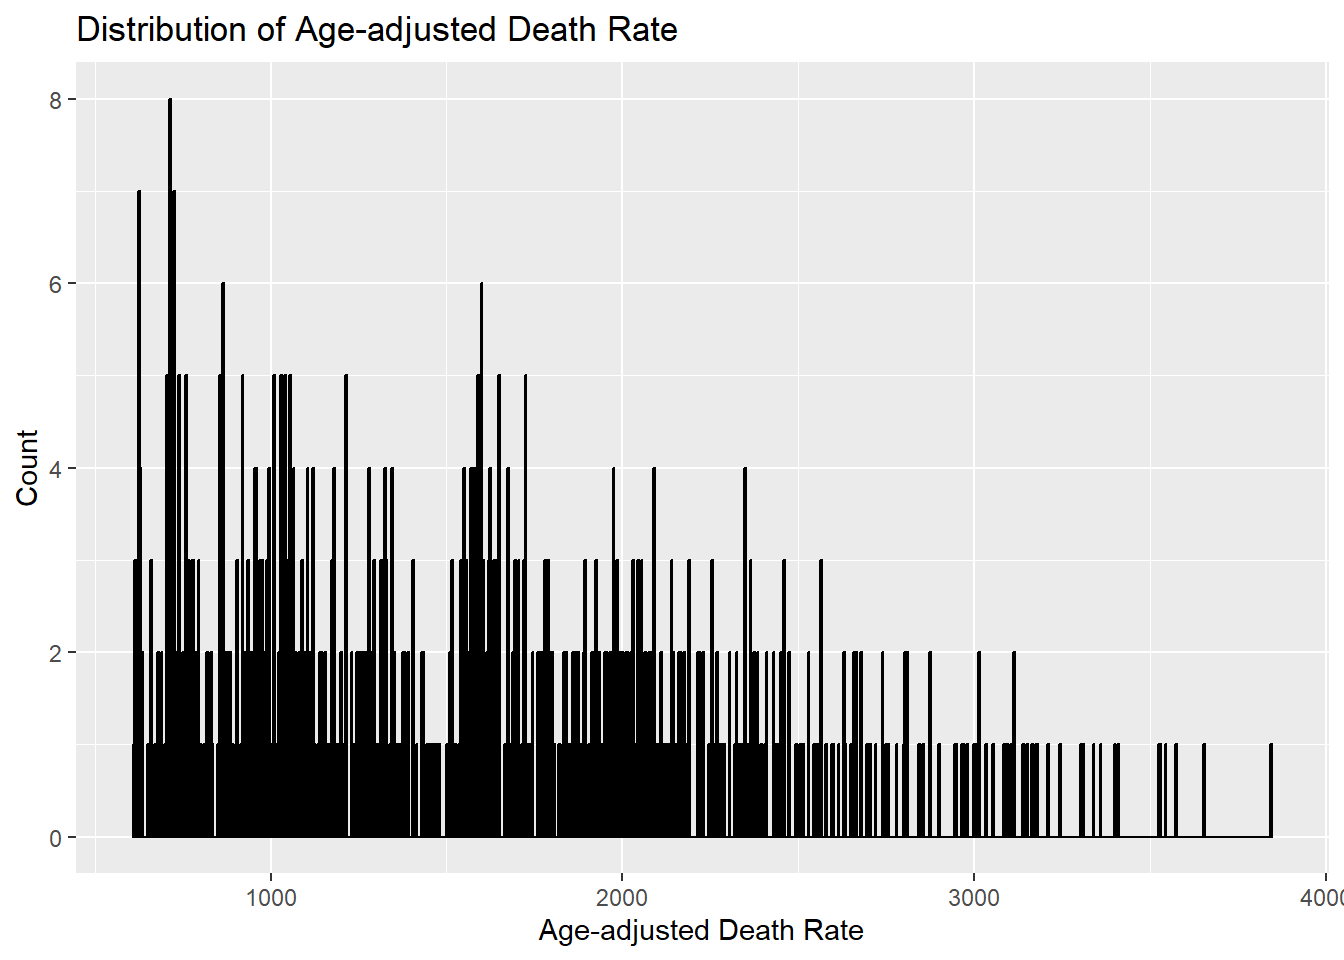
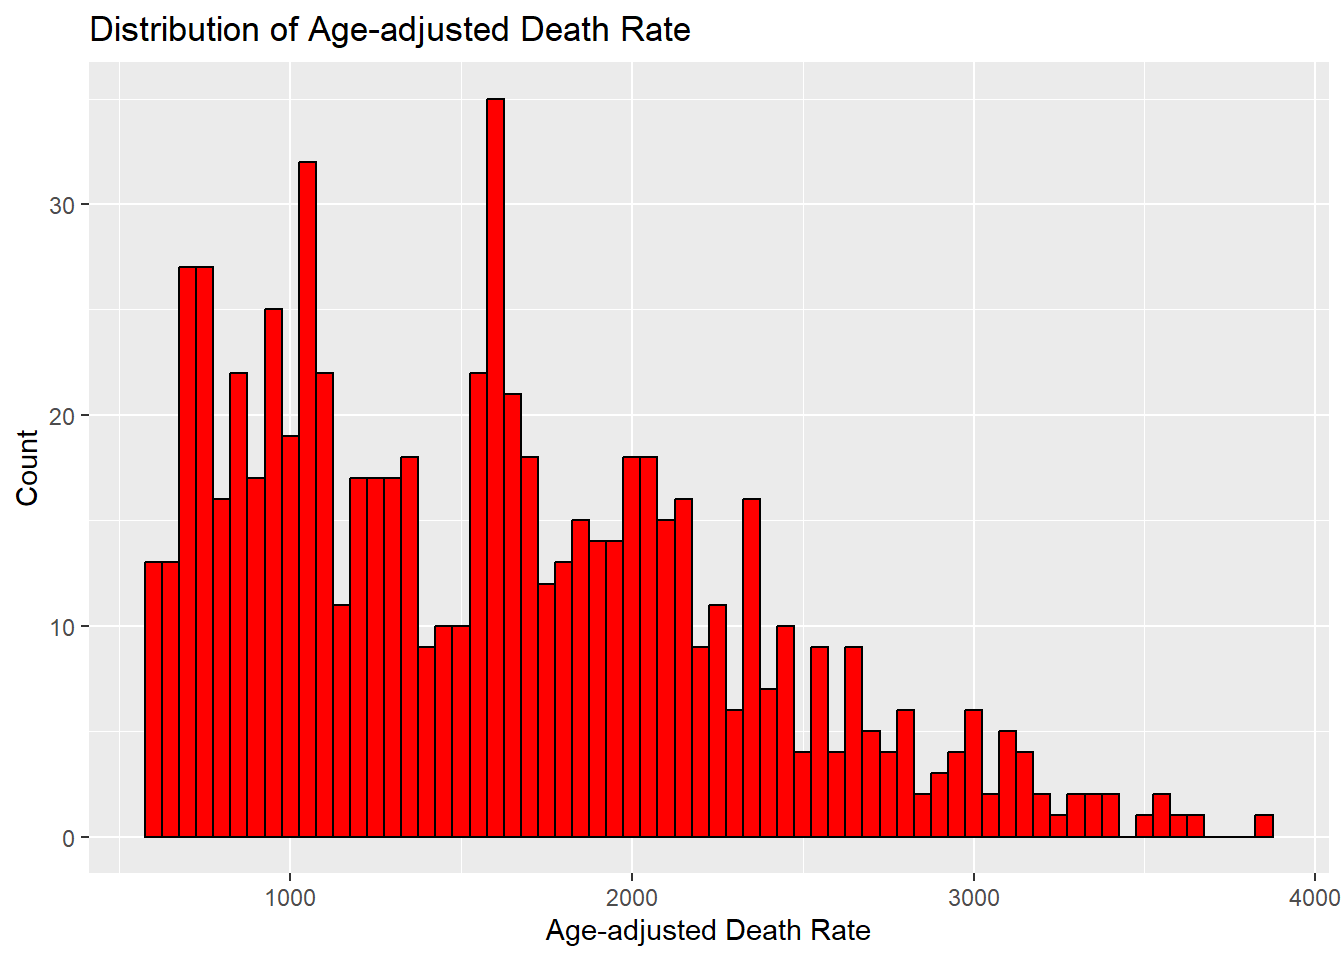
Updated website

diff --git a/docs/cdcdata-exercise/cdcdata-exercise.html b/docs/cdcdata-exercise/cdcdata-exercise.html
@@ -143,6 +143,10 @@ pre > code.sourceCode > span > a:first-child::before { text-decoration: underlin
     <a class="dropdown-item" href="../data-exercise/data-exercise.html" rel="" target="">
  <span class="dropdown-text">Data Exercise</span></a>
   </li>  
+        <li>
+    <a class="dropdown-item" href="../cdcdata-exercise/cdcdata-exercise.html" rel="" target="">
+ <span class="dropdown-text">Data Analysis Exercise</span></a>
+  </li>  
     </ul>
   </li>
 </ul>
@@ -222,7 +226,7 @@ dbl (3): Year, Average Life Expectancy (Years), Age-adjusted Death Rate
 </div>
 </div>
 <div class="cell">
-<div class="sourceCode cell-code" id="cb6"><pre class="sourceCode r code-with-copy"><code class="sourceCode r"><span id="cb6-1"><a href="#cb6-1" aria-hidden="true" tabindex="-1"></a><span class="co">#Remove "Both Sexes" from the "Sex" variable and only keep male and female</span></span>
+<div class="sourceCode cell-code" id="cb6"><pre class="sourceCode r code-with-copy"><code class="sourceCode r"><span id="cb6-1"><a href="#cb6-1" aria-hidden="true" tabindex="-1"></a><span class="co">#Remove "Both Sexes" from the "Sex" column and keep only male and female</span></span>
 <span id="cb6-2"><a href="#cb6-2" aria-hidden="true" tabindex="-1"></a>death2 <span class="ot">&lt;-</span> death_rate <span class="sc">%&gt;%</span></span>
 <span id="cb6-3"><a href="#cb6-3" aria-hidden="true" tabindex="-1"></a>  <span class="fu">filter</span>(Sex <span class="sc">!=</span> <span class="st">"Both Sexes"</span>)</span></code><button title="Copy to Clipboard" class="code-copy-button"><i class="bi"></i></button></pre></div>
 </div>
@@ -257,18 +261,21 @@ dbl (3): Year, Average Life Expectancy (Years), Age-adjusted Death Rate
 </div>
 <div class="sourceCode cell-code" id="cb13"><pre class="sourceCode r code-with-copy"><code class="sourceCode r"><span id="cb13-1"><a href="#cb13-1" aria-hidden="true" tabindex="-1"></a><span class="co"># Histogram of Age-adjusted Death Rate</span></span>
 <span id="cb13-2"><a href="#cb13-2" aria-hidden="true" tabindex="-1"></a><span class="fu">ggplot</span>(death2, <span class="fu">aes</span>(<span class="at">x =</span> <span class="st">`</span><span class="at">Age-adjusted Death Rate</span><span class="st">`</span>)) <span class="sc">+</span></span>
-<span id="cb13-3"><a href="#cb13-3" aria-hidden="true" tabindex="-1"></a>  <span class="fu">geom_histogram</span>(<span class="at">binwidth =</span> <span class="dv">5</span>, <span class="at">fill =</span> <span class="st">"red"</span>, <span class="at">color =</span> <span class="st">"black"</span>) <span class="sc">+</span></span>
+<span id="cb13-3"><a href="#cb13-3" aria-hidden="true" tabindex="-1"></a>  <span class="fu">geom_histogram</span>(<span class="at">binwidth =</span> <span class="dv">50</span>, <span class="at">fill =</span> <span class="st">"red"</span>, <span class="at">color =</span> <span class="st">"black"</span>) <span class="sc">+</span></span>
 <span id="cb13-4"><a href="#cb13-4" aria-hidden="true" tabindex="-1"></a>  <span class="fu">labs</span>(<span class="at">title =</span> <span class="st">"Distribution of Age-adjusted Death Rate"</span>, <span class="at">x =</span> <span class="st">"Age-adjusted Death Rate"</span>, <span class="at">y =</span> <span class="st">"Count"</span>)</span></code><button title="Copy to Clipboard" class="code-copy-button"><i class="bi"></i></button></pre></div>
 <div class="cell-output-display">
 <p><img src="cdcdata-exercise_files/figure-html/unnamed-chunk-7-1.png" class="img-fluid" width="672"></p>
 </div>
 </div>
 <div class="cell">
-<div class="sourceCode cell-code" id="cb14"><pre class="sourceCode r code-with-copy"><code class="sourceCode r"><span id="cb14-1"><a href="#cb14-1" aria-hidden="true" tabindex="-1"></a><span class="co"># Box plot of Average Life Expectancy by Race</span></span>
-<span id="cb14-2"><a href="#cb14-2" aria-hidden="true" tabindex="-1"></a><span class="fu">ggplot</span>(death2, <span class="fu">aes</span>(<span class="at">x =</span> Race, <span class="at">y =</span> <span class="st">`</span><span class="at">Average Life Expectancy (Years)</span><span class="st">`</span>)) <span class="sc">+</span></span>
-<span id="cb14-3"><a href="#cb14-3" aria-hidden="true" tabindex="-1"></a>  <span class="fu">geom_boxplot</span>(<span class="at">fill =</span> <span class="st">"orange"</span>, <span class="at">color =</span> <span class="st">"blue"</span>) <span class="sc">+</span></span>
-<span id="cb14-4"><a href="#cb14-4" aria-hidden="true" tabindex="-1"></a>  <span class="fu">labs</span>(<span class="at">title =</span> <span class="st">"Average Life Expectancy by Race"</span>, <span class="at">x =</span> <span class="st">"Race"</span>, <span class="at">y =</span> <span class="st">"Average Life Expectancy (years)"</span>) <span class="sc">+</span></span>
-<span id="cb14-5"><a href="#cb14-5" aria-hidden="true" tabindex="-1"></a>  <span class="fu">theme</span>(<span class="at">axis.text.x =</span> <span class="fu">element_text</span>(<span class="at">angle =</span> <span class="dv">45</span>, <span class="at">hjust =</span> <span class="dv">1</span>))</span></code><button title="Copy to Clipboard" class="code-copy-button"><i class="bi"></i></button></pre></div>
+<div class="sourceCode cell-code" id="cb14"><pre class="sourceCode r code-with-copy"><code class="sourceCode r"><span id="cb14-1"><a href="#cb14-1" aria-hidden="true" tabindex="-1"></a><span class="co">#plot with gradient color scale</span></span>
+<span id="cb14-2"><a href="#cb14-2" aria-hidden="true" tabindex="-1"></a>AvgLife_Race_plot <span class="ot">&lt;-</span> <span class="fu">ggplot</span>(death2, <span class="fu">aes</span>(<span class="at">x =</span> Race, <span class="at">y =</span> <span class="st">`</span><span class="at">Average Life Expectancy (Years)</span><span class="st">`</span>, <span class="at">color =</span> <span class="st">`</span><span class="at">Average Life Expectancy (Years)</span><span class="st">`</span>)) <span class="sc">+</span></span>
+<span id="cb14-3"><a href="#cb14-3" aria-hidden="true" tabindex="-1"></a>  <span class="fu">geom_point</span>(<span class="at">size =</span> <span class="dv">5</span>) <span class="sc">+</span></span>
+<span id="cb14-4"><a href="#cb14-4" aria-hidden="true" tabindex="-1"></a>  <span class="fu">scale_color_gradient</span>(<span class="at">low =</span> <span class="st">"red"</span>, <span class="at">high =</span> <span class="st">"green"</span>) <span class="sc">+</span></span>
+<span id="cb14-5"><a href="#cb14-5" aria-hidden="true" tabindex="-1"></a>  <span class="fu">labs</span>(<span class="at">title =</span> <span class="st">"Average Life Expectancy by Race"</span>, <span class="at">x =</span> <span class="st">"Race"</span>, <span class="at">y =</span> <span class="st">"Average Life Expectancy (Years)"</span>) <span class="sc">+</span></span>
+<span id="cb14-6"><a href="#cb14-6" aria-hidden="true" tabindex="-1"></a>  <span class="fu">theme_minimal</span>() <span class="sc">+</span></span>
+<span id="cb14-7"><a href="#cb14-7" aria-hidden="true" tabindex="-1"></a>  <span class="fu">theme</span>(<span class="at">axis.text.x =</span> <span class="fu">element_text</span>(<span class="at">angle =</span> <span class="dv">45</span>, <span class="at">hjust =</span> <span class="dv">1</span>))</span>
+<span id="cb14-8"><a href="#cb14-8" aria-hidden="true" tabindex="-1"></a>AvgLife_Race_plot</span></code><button title="Copy to Clipboard" class="code-copy-button"><i class="bi"></i></button></pre></div>
 <div class="cell-output-display">
 <p><img src="cdcdata-exercise_files/figure-html/unnamed-chunk-8-1.png" class="img-fluid" width="672"></p>
 </div>

diff --git a/docs/starter-analysis-exercise/code/eda-code/eda_NFL.html b/docs/starter-analysis-exercise/code/eda-code/eda_NFL.html
@@ -7,7 +7,7 @@
 <meta name="viewport" content="width=device-width, initial-scale=1.0, user-scalable=yes">
 
 <meta name="author" content="Nicholas Stevenson">
-<meta name="dcterms.date" content="2024-07-02">
+<meta name="dcterms.date" content="2024-07-04">
 
 <title>Nicholas Stevenson - Data Analysis Portfolio - eda3</title>
 <style>
@@ -145,6 +145,10 @@ pre > code.sourceCode > span > a:first-child::before { text-decoration: underlin
     <a class="dropdown-item" href="../../../data-exercise/data-exercise.html" rel="" target="">
  <span class="dropdown-text">Data Exercise</span></a>
   </li>  
+        <li>
+    <a class="dropdown-item" href="../../../cdcdata-exercise/cdcdata-exercise.html" rel="" target="">
+ <span class="dropdown-text">Data Analysis Exercise</span></a>
+  </li>  
     </ul>
   </li>
 </ul>
@@ -188,7 +192,7 @@ pre > code.sourceCode > span > a:first-child::before { text-decoration: underlin
     <div>
     <div class="quarto-title-meta-heading">Published</div>
     <div class="quarto-title-meta-contents">
-      <p class="date">July 2, 2024</p>
+      <p class="date">July 4, 2024</p>
     </div>
   </div>
   

diff --git a/docs/starter-analysis-exercise/products/report/starter-analysis-report.html b/docs/starter-analysis-exercise/products/report/starter-analysis-report.html
@@ -7,7 +7,7 @@
 <meta name="viewport" content="width=device-width, initial-scale=1.0, user-scalable=yes">
 
 <meta name="author" content="Nicholas Stevenson">
-<meta name="dcterms.date" content="2024-07-02">
+<meta name="dcterms.date" content="2024-07-04">
 
 <title>Nicholas Stevenson - Data Analysis Portfolio - Manuscript/Report Template for a Data Analysis Project</title>
 <style>
@@ -164,6 +164,10 @@ div.csl-indent {
     <a class="dropdown-item" href="../../../data-exercise/data-exercise.html" rel="" target="">
  <span class="dropdown-text">Data Exercise</span></a>
   </li>  
+        <li>
+    <a class="dropdown-item" href="../../../cdcdata-exercise/cdcdata-exercise.html" rel="" target="">
+ <span class="dropdown-text">Data Analysis Exercise</span></a>
+  </li>  
     </ul>
   </li>
 </ul>
@@ -207,7 +211,7 @@ div.csl-indent {
     <div>
     <div class="quarto-title-meta-heading">Published</div>
     <div class="quarto-title-meta-contents">
-      <p class="date">July 2, 2024</p>
+      <p class="date">July 4, 2024</p>
     </div>
   </div>
   

diff --git a/docs/starter-analysis-exercise/code/eda-code/eda.html b/docs/starter-analysis-exercise/code/eda-code/eda.html
@@ -145,6 +145,10 @@ pre > code.sourceCode > span > a:first-child::before { text-decoration: underlin
     <a class="dropdown-item" href="../../../data-exercise/data-exercise.html" rel="" target="">
  <span class="dropdown-text">Data Exercise</span></a>
   </li>  
+        <li>
+    <a class="dropdown-item" href="../../../cdcdata-exercise/cdcdata-exercise.html" rel="" target="">
+ <span class="dropdown-text">Data Analysis Exercise</span></a>
+  </li>  
     </ul>
   </li>
 </ul>

diff --git a/docs/starter-analysis-exercise/code/eda-code/eda2.html b/docs/starter-analysis-exercise/code/eda-code/eda2.html
@@ -145,6 +145,10 @@ pre > code.sourceCode > span > a:first-child::before { text-decoration: underlin
     <a class="dropdown-item" href="../../../data-exercise/data-exercise.html" rel="" target="">
  <span class="dropdown-text">Data Exercise</span></a>
   </li>  
+        <li>
+    <a class="dropdown-item" href="../../../cdcdata-exercise/cdcdata-exercise.html" rel="" target="">
+ <span class="dropdown-text">Data Analysis Exercise</span></a>
+  </li>  
     </ul>
   </li>
 </ul>

diff --git a/docs/starter-analysis-exercise/code/processing-code/processingfile.html b/docs/starter-analysis-exercise/code/processing-code/processingfile.html
@@ -145,6 +145,10 @@ pre > code.sourceCode > span > a:first-child::before { text-decoration: underlin
     <a class="dropdown-item" href="../../../data-exercise/data-exercise.html" rel="" target="">
  <span class="dropdown-text">Data Exercise</span></a>
   </li>  
+        <li>
+    <a class="dropdown-item" href="../../../cdcdata-exercise/cdcdata-exercise.html" rel="" target="">
+ <span class="dropdown-text">Data Analysis Exercise</span></a>
+  </li>  
     </ul>
   </li>
 </ul>

diff --git a/docs/starter-analysis-exercise/code/processing-code/processingfile2.html b/docs/starter-analysis-exercise/code/processing-code/processingfile2.html
@@ -145,6 +145,10 @@ pre > code.sourceCode > span > a:first-child::before { text-decoration: underlin
     <a class="dropdown-item" href="../../../data-exercise/data-exercise.html" rel="" target="">
  <span class="dropdown-text">Data Exercise</span></a>
   </li>  
+        <li>
+    <a class="dropdown-item" href="../../../cdcdata-exercise/cdcdata-exercise.html" rel="" target="">
+ <span class="dropdown-text">Data Analysis Exercise</span></a>
+  </li>  
     </ul>
   </li>
 </ul>

diff --git a/docs/coding-exercise/coding-exercise.html b/docs/coding-exercise/coding-exercise.html
@@ -143,6 +143,10 @@ pre > code.sourceCode > span > a:first-child::before { text-decoration: underlin
     <a class="dropdown-item" href="../data-exercise/data-exercise.html" rel="" target="">
  <span class="dropdown-text">Data Exercise</span></a>
   </li>  
+        <li>
+    <a class="dropdown-item" href="../cdcdata-exercise/cdcdata-exercise.html" rel="" target="">
+ <span class="dropdown-text">Data Analysis Exercise</span></a>
+  </li>  
     </ul>
   </li>
 </ul>

diff --git a/docs/data-exercise/data-exercise.html b/docs/data-exercise/data-exercise.html
@@ -143,6 +143,10 @@ pre > code.sourceCode > span > a:first-child::before { text-decoration: underlin
     <a class="dropdown-item" href="../data-exercise/data-exercise.html" rel="" target="">
  <span class="dropdown-text">Data Exercise</span></a>
   </li>  
+        <li>
+    <a class="dropdown-item" href="../cdcdata-exercise/cdcdata-exercise.html" rel="" target="">
+ <span class="dropdown-text">Data Analysis Exercise</span></a>
+  </li>  
     </ul>
   </li>
 </ul>

diff --git a/docs/starter-analysis-exercise/code/analysis-code/readme.html b/docs/starter-analysis-exercise/code/analysis-code/readme.html
@@ -109,6 +109,10 @@ ul.task-list li input[type="checkbox"] {
     <a class="dropdown-item" href="../../../data-exercise/data-exercise.html" rel="" target="">
  <span class="dropdown-text">Data Exercise</span></a>
   </li>  
+        <li>
+    <a class="dropdown-item" href="../../../cdcdata-exercise/cdcdata-exercise.html" rel="" target="">
+ <span class="dropdown-text">Data Analysis Exercise</span></a>
+  </li>  
     </ul>
   </li>
 </ul>

diff --git a/docs/starter-analysis-exercise/code/eda-code/readme.html b/docs/starter-analysis-exercise/code/eda-code/readme.html
@@ -109,6 +109,10 @@ ul.task-list li input[type="checkbox"] {
     <a class="dropdown-item" href="../../../data-exercise/data-exercise.html" rel="" target="">
  <span class="dropdown-text">Data Exercise</span></a>
   </li>  
+        <li>
+    <a class="dropdown-item" href="../../../cdcdata-exercise/cdcdata-exercise.html" rel="" target="">
+ <span class="dropdown-text">Data Analysis Exercise</span></a>
+  </li>  
     </ul>
   </li>
 </ul>

diff --git a/docs/starter-analysis-exercise/code/processing-code/readme.html b/docs/starter-analysis-exercise/code/processing-code/readme.html
@@ -109,6 +109,10 @@ ul.task-list li input[type="checkbox"] {
     <a class="dropdown-item" href="../../../data-exercise/data-exercise.html" rel="" target="">
  <span class="dropdown-text">Data Exercise</span></a>
   </li>  
+        <li>
+    <a class="dropdown-item" href="../../../cdcdata-exercise/cdcdata-exercise.html" rel="" target="">
+ <span class="dropdown-text">Data Analysis Exercise</span></a>
+  </li>  
     </ul>
   </li>
 </ul>
